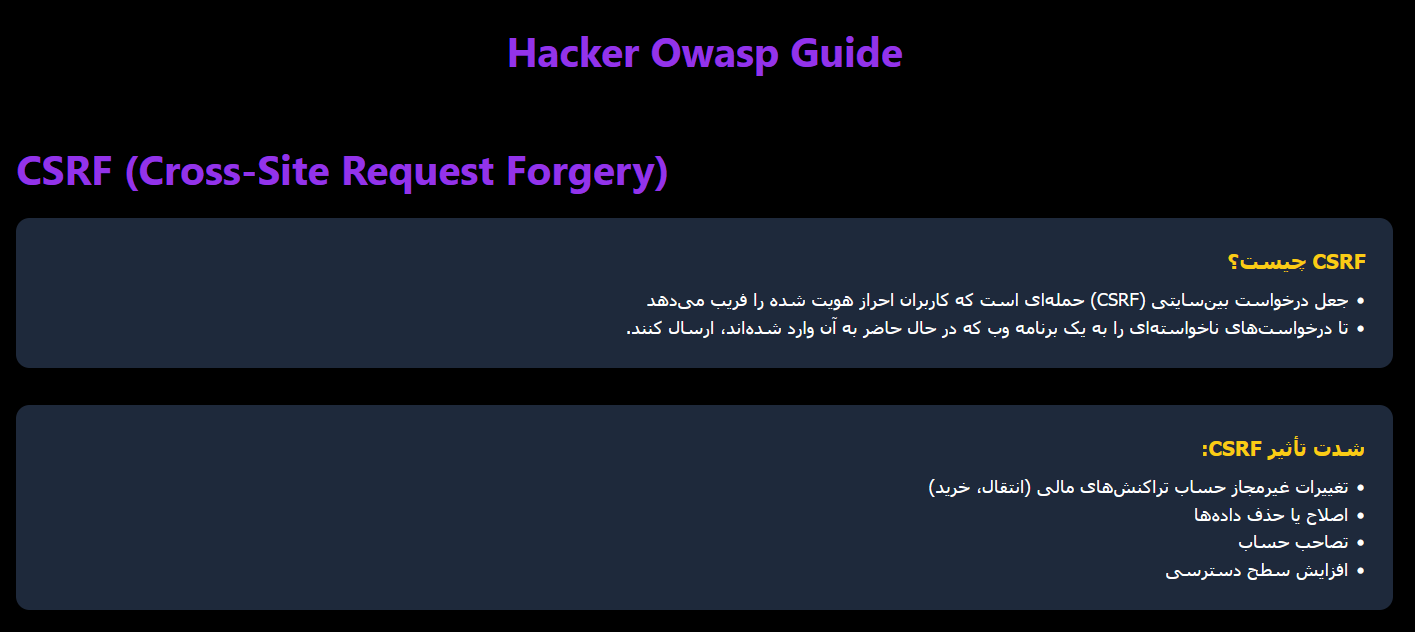
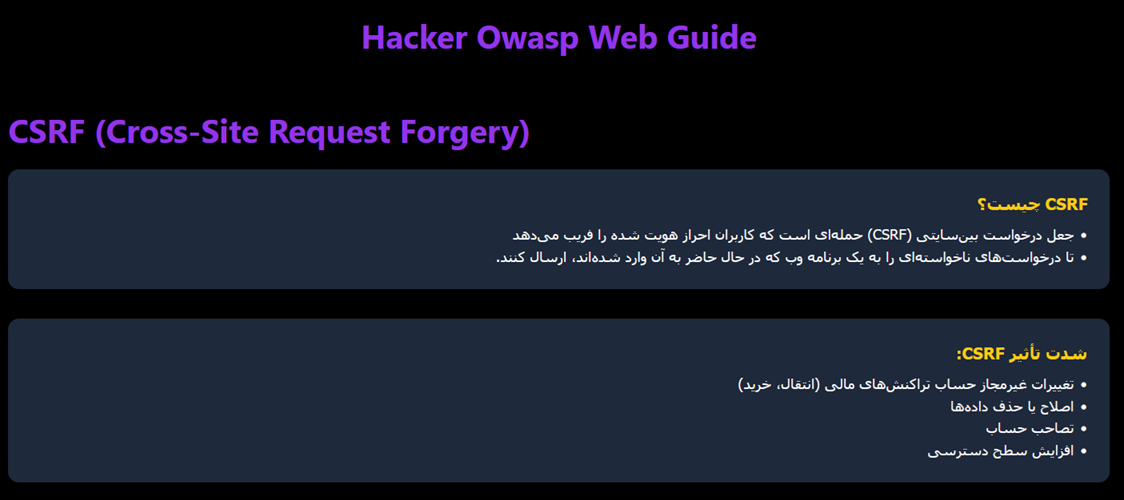
add rce section

diff --git a/README.md b/README.md
@@ -1,6 +1,6 @@
 
 
-# 🛡 Chaos Owasp Guide — Web Security
+# 🛡 Chaos Owasp Web Guide — Web Security
 
 ## 👀 Site Previews
 
@@ -10,6 +10,7 @@ You can view previews of the site in the `preview` directory as PNG images:
 ![SQL Injection Section](preview/SqliPage.png)
 ![XSS Section](preview/XssPage.png)
 ![CSRF Section](preview/CSRFPage.png)
+![RCE Section](preview/RCEPage.png)
 
 
 > 🧠 **Maintained by XaocZenon — a comprehensive, visually-rich guide for web application security enthusiasts.**
